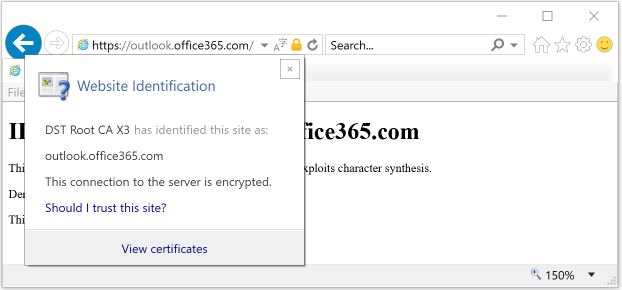
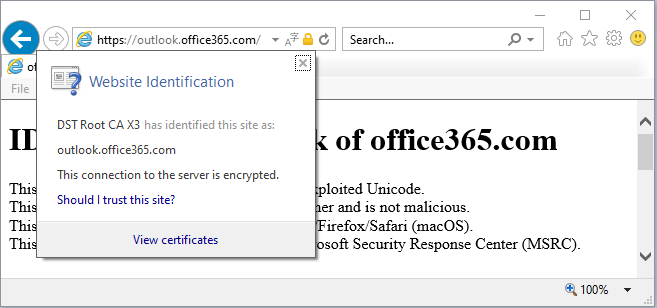
Update file

Changed region(s): [[0.0, 0.0, 1.0, 1.0]]

diff --git a/index.html b/index.html
@@ -5,15 +5,15 @@
         <meta http-equiv="cache-control" content="no-cache, no-store">
         <meta http-equiv="pragma" content="no-cache">
         <meta name="expires" content="0">
-        <meta name="description" content="IDN homograph attack of office365.com">
+        <meta name="description" content="IDN homograph attack on office365.com">
+        <meta name="keywords" content="Security,Cybersecurity,IDN,homograph">
         <title>office365</title>
     </head>
     <body>
-        <h1>IDN homograph attack of office365.com</h1>
+        <h1>IDN homograph attack on office365.com</h1>
         <p>This is an apparently fake office365.com that exploited Unicode.<br>
-        This demo page is protected by security researcher and is not malicious.<br>
-        This is Proof-of-Concept affected in IE11/Edge/Firefox/Safari (macOS).<br>
-        This issue has already been reported to the Microsoft Security Response Center (MSRC).</p>
+        This Proof-of-concept affects IE11/Edge/Firefox/Safari but is not malicious.<br>
+        Has already been reported to the Microsoft Security Response Center.</p>
         <h2>Screenshot</h2>
         <img src="./Capture.PNG">
     </body>
